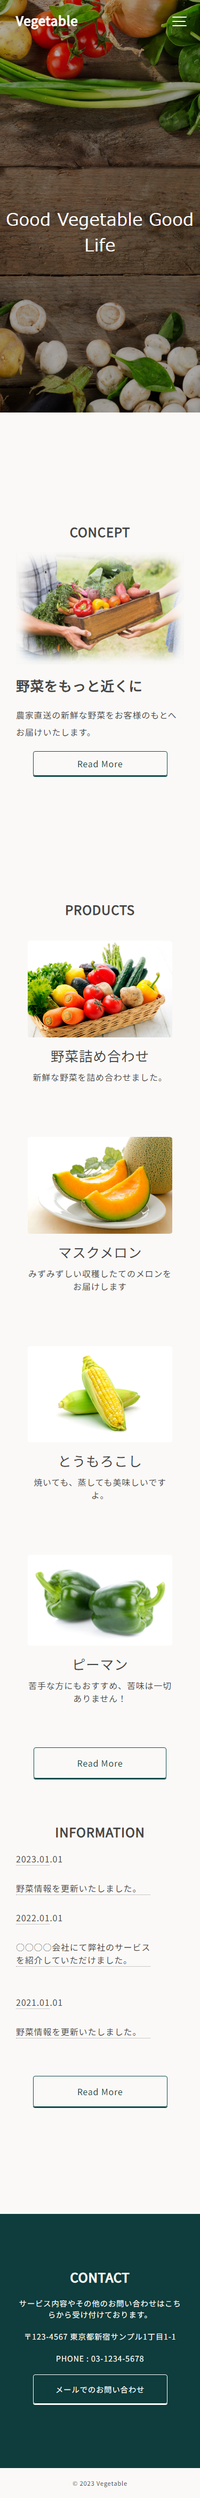
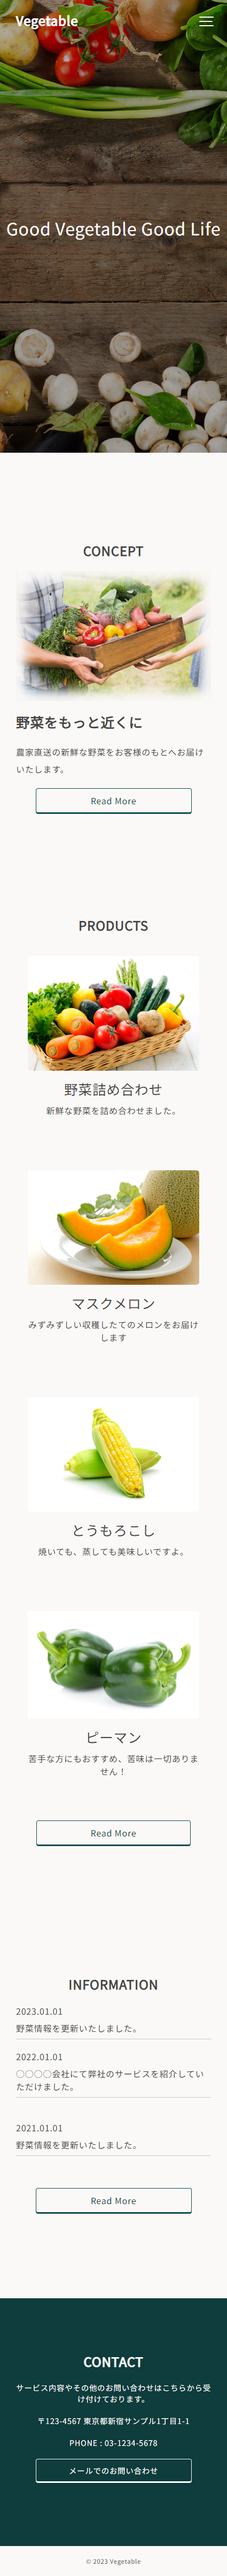
Add files via upload

diff --git a/js/script.js b/js/script.js
@@ -19,20 +19,13 @@ $(function () {
         return false;
     });
         
-    // ウインドウをスクロールしたら
+    // ウインドウスクロールイベント
     $(window).scroll(function (){
-        // .js-fadeのクラスを持つ要素（それぞれに対して）
         $('.js-fade').each(function(){
-            // この要素のスクロール位置（上から）
-            var pos = $(this).offset().top;
-            // ウインドウのスクロール量（上から）
-            var scroll = $(window).scrollTop();
-            // ウインドウの縦幅
-            var windowHeight = $(window).height();
-            // ウインドウのスクロール量（上から）が
-            // この要素のスクロール位置 - ウインドウの縦幅 + 100pxより大きい場合
+            let pos = $(this).offset().top;
+            let scroll = $(window).scrollTop();
+            let windowHeight = $(window).height();
             if (scroll > pos - windowHeight + 100){
-                // .scrollというクラス.js-fadeに付与する
                 $(this).addClass('scroll');
             }
         });

diff --git a/index.html b/index.html
@@ -49,7 +49,7 @@
             <p class="split-text">
             大学では農業について学んでいました。<br>
             自然と植物はもちろん、デザインについて学ぶことも大好きです。<br>
-            一人でも多くのお客様に喜んでもらえるように尽力します。</p>
+            お客様に喜んでもらえるよう最後まで粘り強く尽力します。</p>
         </div>
         <div class="split-img"></div>
         </div>

diff --git a/css/style.css b/css/style.css
@@ -259,9 +259,7 @@ Skill
     font-size: 14px;
     line-height: 1.8;
 }
-.canva {
-    border-radius: 50%;
-}
+
 /*--------------------------------
 About
 ---------------------------------*/
@@ -456,7 +454,7 @@ Contact
 
     /* レイアウト */
     .wrapper {
-        padding-top: 57px;
+        padding-top: 50px;
     }
 
     .section {
